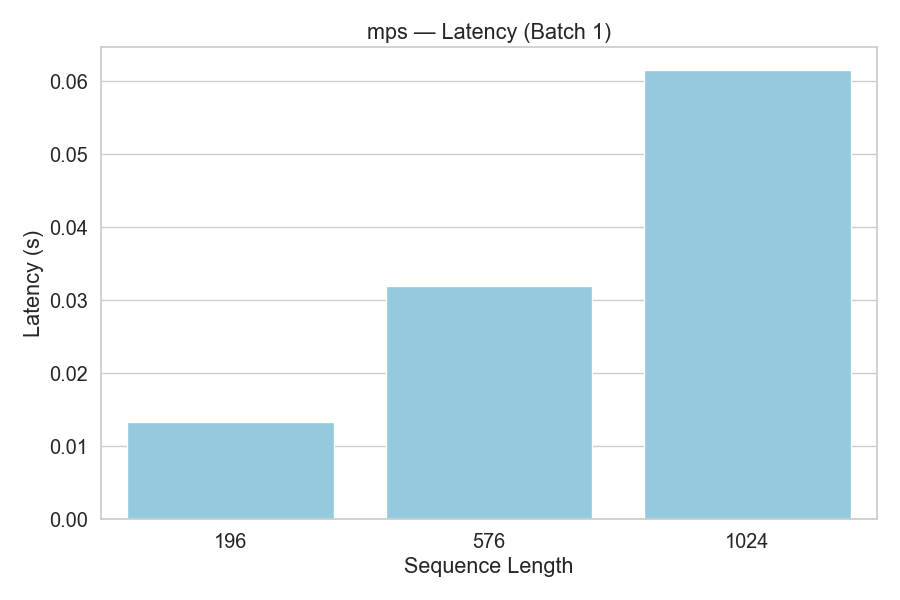
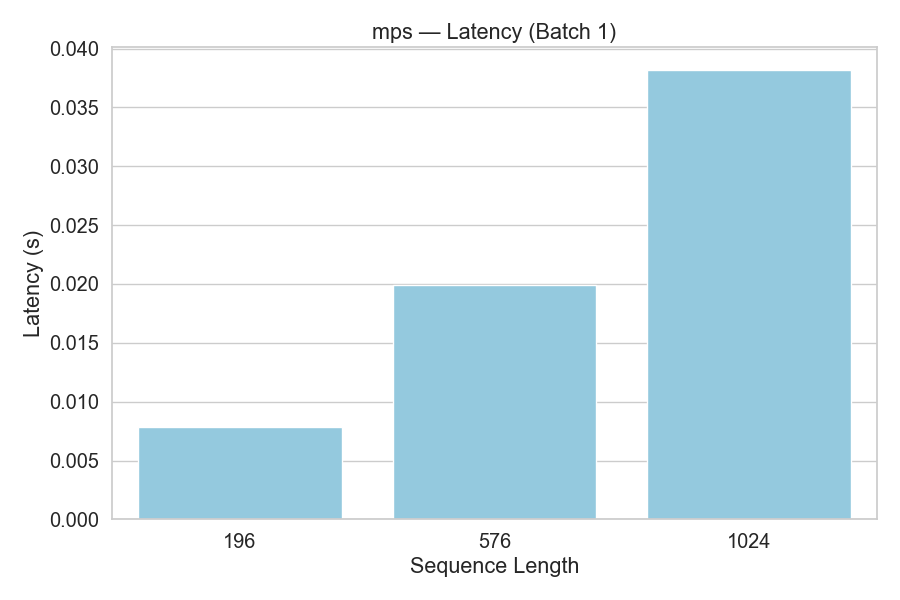
Final MAC

diff --git a/benchmark_transformere_layer.py b/benchmark_transformere_layer.py
@@ -1,0 +1,205 @@
+import torch
+import time
+import numpy as np
+import pandas as pd
+from tqdm import tqdm
+
+# -----------------------------------------------------------
+# DEVICE DETECTION AND SYNCHRONIZATION
+# -----------------------------------------------------------
+def detect_device():
+    if torch.cuda.is_available():
+        return torch.device("cuda")
+    elif torch.backends.mps.is_available():
+        return torch.device("mps")
+    else:
+        return torch.device("cpu")
+
+device = detect_device()
+device_name = str(device)
+print(f"\nRunning on: {device_name}\n")
+
+# -----------------------------------------------------------
+# VIT TRANSFORMER-ENCODER LAYER (No Change)
+# -----------------------------------------------------------
+class ViTEncoderLayer(torch.nn.Module):
+    def __init__(self, d_model, nhead, dim_ff):
+        super().__init__()
+        self.layer = torch.nn.TransformerEncoderLayer(
+            d_model=d_model,
+            nhead=nhead,
+            dim_feedforward=dim_ff,
+            batch_first=True,
+            activation="gelu",
+            norm_first=True,
+        )
+
+    def forward(self, x):
+        return self.layer(x)
+
+# -----------------------------------------------------------
+# FLOPs ESTIMATION (No Change)
+# -----------------------------------------------------------
+def estimate_flops(seq_len, d_model, ff_dim):
+    # Attn Proj: 4 * (D*D) * S
+    attn_proj = 4 * seq_len * (d_model * d_model)
+    # Attn Scores: QK^T and Attention Output (2 * S*S*D)
+    attn_scores = 2 * (seq_len * seq_len * d_model)
+    # FFN: 2 * (D*F) * S
+    ffn = 2 * seq_len * (d_model * ff_dim)
+    return attn_proj + attn_scores + ffn
+
+# -----------------------------------------------------------
+# MEMORY MEASUREMENT (No Change)
+# -----------------------------------------------------------
+def measure_memory():
+    if device.type != "cuda":
+        return {
+            "total_vram": "Unified Memory",
+            "peak_allocated": "N/A",
+            "peak_reserved": "N/A",
+            "utilization_pct": "N/A",
+        }
+
+    torch.cuda.synchronize()
+
+    total_vram = torch.cuda.get_device_properties(0).total_memory / (1024**2)
+    peak_allocated = torch.cuda.max_memory_allocated() / (1024**2)
+    peak_reserved = torch.cuda.max_memory_reserved() / (1024**2)
+    utilization = (peak_allocated / total_vram) * 100
+
+    return {
+        "total_vram": f"{total_vram:.1f} MiB",
+        "peak_allocated": f"{peak_allocated:.1f} MiB",
+        "peak_reserved": f"{peak_reserved:.1f} MiB",
+        "utilization_pct": f"{utilization:.1f} %",
+    }
+
+# PRECISION MODES (No Change)
+def get_precision_modes():
+    if device.type == "cuda":
+        return ["fp32", "fp16"]
+    else:
+        return ["fp32"]
+
+precision_modes = get_precision_modes()
+
+# -----------------------------------------------------------
+# BENCHMARK CONFIG (No Change)
+# -----------------------------------------------------------
+model_sizes = [
+    {"name": "Small", "d": 384, "h": 6, "ff": 1536},
+    {"name": "Base", "d": 768, "h": 12, "ff": 3072},
+    {"name": "Large", "d": 1024, "h": 16, "ff": 4096},
+]
+
+sequence_lengths = [196, 576, 1024]
+batch_sizes = [1, 8, 32]
+
+num_warmup = 3
+num_iters = 10
+
+lat_results = []
+mem_results = []
+
+# -----------------------------------------------------------
+# MAIN BENCHMARK LOOP (Timing Updated)
+# -----------------------------------------------------------
+for cfg in model_sizes:
+    for precision in precision_modes:
+
+        layer = ViTEncoderLayer(cfg["d"], cfg["h"], cfg["ff"]).to(device)
+        if precision == "fp16":
+            layer = layer.half()
+
+        for seq_len in sequence_lengths:
+            for batch in batch_sizes:
+
+                x = torch.randn(batch, seq_len, cfg["d"]).to(device)
+                if precision == "fp16":
+                    x = x.half()
+
+                if device.type == "cuda":
+                    torch.cuda.reset_peak_memory_stats()
+                
+                # Setup events for CUDA timing
+                if device.type == "cuda":
+                    start_event = torch.cuda.Event(enable_timing=True)
+                    end_event = torch.cuda.Event(enable_timing=True)
+
+                # Warmup
+                for _ in range(num_warmup):
+                    _ = layer(x)
+
+                latencies = []
+                total_tokens = seq_len * batch
+
+                # Timed iterations
+                pbar = tqdm(range(num_iters), desc=f"{cfg['name']} {precision} B{batch} S{seq_len}")
+                for _ in pbar:
+                    if device.type == "cuda":
+                        start_event.record()
+                        _ = layer(x)
+                        end_event.record()
+                        torch.cuda.synchronize()
+                        
+                        # Time measured in milliseconds, convert to seconds
+                        duration_sec = start_event.elapsed_time(end_event) / 1000.0
+                    else:
+                        start = time.time()
+                        _ = layer(x)
+                        if device.type == "mps":
+                            torch.mps.synchronize()
+                        end = time.time()
+                        duration_sec = end - start
+                        
+                    latencies.append(duration_sec)
+
+                avg_lat = float(np.mean(latencies))
+                p50_lat = float(np.percentile(latencies, 50))
+                p95_lat = float(np.percentile(latencies, 95))
+                wall_time = float(np.sum(latencies))
+                throughput_tokens = total_tokens / avg_lat
+
+                # FLOPs
+                total_flops = estimate_flops(seq_len, cfg["d"], cfg["ff"]) * batch
+                # TFLOPS = (FLOPs / Latency) / 1e12
+                achieved_tflops = (total_flops / avg_lat) / 1e12
+
+                # Memory
+                mem = measure_memory()
+                mem_results.append({
+                    "device": device_name,
+                    "model": cfg["name"],
+                    "precision": precision,
+                    "seq_len": seq_len,
+                    "batch": batch,
+                    **mem
+                })
+
+                # Save latency + FLOPs
+                lat_results.append({
+                    "device": device_name,
+                    "model_size": cfg["name"],
+                    "precision": precision,
+                    "seq_len": seq_len,
+                    "batch": batch,
+                    "mean_latency_sec": round(avg_lat, 6),
+                    "p50_sec": round(p50_lat, 6),
+                    "p95_sec": round(p95_lat, 6),
+                    "throughput_tokens_sec": round(throughput_tokens, 2),
+                    "wall_time_sec": round(wall_time, 4),
+                    "estimated_flops": int(total_flops),
+                    "achieved_tflops": round(achieved_tflops, 4),
+                })
+
+# SAVE RESULTS
+lat_df = pd.DataFrame(lat_results)
+lat_df.to_csv("latency_flops_results.csv", index=False)
+
+mem_df = pd.DataFrame(mem_results)
+mem_df.to_csv("memory_bottlenecks.csv", index=False)
+
+print("\n✔ Saved:")
+print("latency_flops_results.csv")
+print("memory_bottlenecks.csv")
